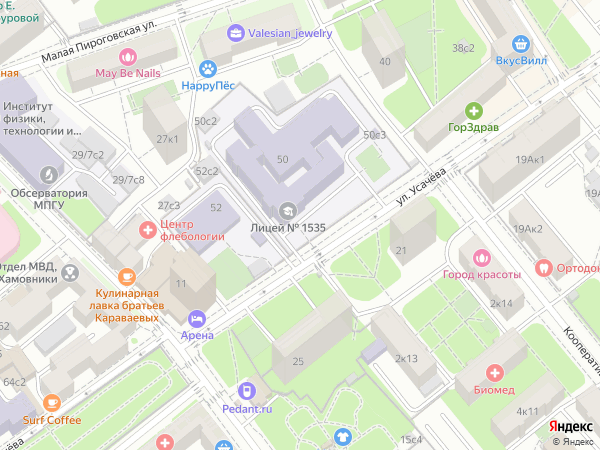
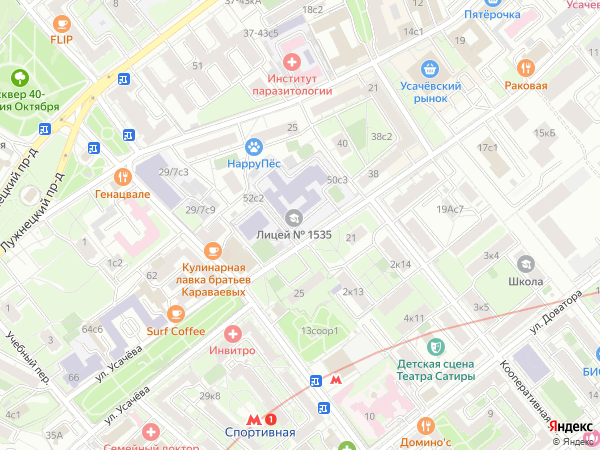
2

diff --git a/map.py b/map.py
@@ -1,13 +1,3 @@
-# -*- coding: utf-8 -*-
-
-# Form implementation generated from reading ui file 'map.ui'
-#
-# Created by: PyQt5 UI code generator 5.15.7
-#
-# WARNING: Any manual changes made to this file will be lost when pyuic5 is
-# run again.  Do not edit this file unless you know what you are doing.
-
-
 from PyQt5 import QtCore, QtGui, QtWidgets
 
 
@@ -18,9 +8,18 @@ class Ui_MainWindow(object):
         self.centralwidget = QtWidgets.QWidget(MainWindow)
         self.centralwidget.setObjectName("centralwidget")
         self.label = QtWidgets.QLabel(self.centralwidget)
-        self.label.setGeometry(QtCore.QRect(0, 0, 600, 450))
+        self.label.setGeometry(QtCore.QRect(0, 40, 600, 490))
         self.label.setText("")
         self.label.setObjectName("label")
+        self.pushButton = QtWidgets.QPushButton(self.centralwidget)
+        self.pushButton.setGeometry(QtCore.QRect(40, 25, 41, 32))
+        self.pushButton.setObjectName("pushButton")
+        self.pushButton_2 = QtWidgets.QPushButton(self.centralwidget)
+        self.pushButton_2.setGeometry(QtCore.QRect(100, 25, 41, 32))
+        self.pushButton_2.setObjectName("pushButton_2")
+        self.label_2 = QtWidgets.QLabel(self.centralwidget)
+        self.label_2.setGeometry(QtCore.QRect(20, 5, 151, 16))
+        self.label_2.setObjectName("label_2")
         MainWindow.setCentralWidget(self.centralwidget)
         self.menubar = QtWidgets.QMenuBar(MainWindow)
         self.menubar.setGeometry(QtCore.QRect(0, 0, 1792, 22))
@@ -36,3 +35,7 @@ class Ui_MainWindow(object):
     def retranslateUi(self, MainWindow):
         _translate = QtCore.QCoreApplication.translate
         MainWindow.setWindowTitle(_translate("Map", "Map"))
+        self.pushButton.setText(_translate("MainWindow", "+"))
+        self.pushButton_2.setText(_translate("MainWindow", "-"))
+        self.label_2.setText(_translate("MainWindow", "Изменение масштаба"))
+

diff --git a/main.py b/main.py
@@ -11,17 +11,33 @@ class Menu(QMainWindow, Ui_MainWindow):
     def __init__(self):
         super().__init__()
         self.setupUi(self)
-        api_server = "http://static-maps.yandex.ru/1.x/"
-        lon = "37.564985"
-        lat = "55.725680"
-        delta = "0.002"
-        params = {
-            "ll": ",".join([lon, lat]),
-            "spn": ",".join([delta, delta]),
+        self.api_server = "http://static-maps.yandex.ru/1.x/"
+        self.lon = "37.564985"
+        self.lat = "55.725680"
+        self.delta = "0.002"
+        self.upd()
+        Image.open(BytesIO(self.response.content)).save('map.png')
+        self.pix = QPixmap('map.png')
+        self.label.setPixmap(self.pix)
+        self.pushButton.clicked.connect(self.scale_up)
+        self.pushButton_2.clicked.connect(self.scale_down)
+
+    def scale_up(self):
+        self.delta = str(float(self.delta) + 0.001)
+        self.upd()
+
+    def scale_down(self):
+        self.delta = str(float(self.delta) - 0.001)
+        self.upd()
+
+    def upd(self):
+        self.params = {
+            "ll": ",".join([self.lon, self.lat]),
+            "spn": ",".join([self.delta, self.delta]),
             "l": "map"
         }
-        response = requests.get(api_server, params=params)
-        Image.open(BytesIO(response.content)).save('map.png')
+        self.response = requests.get(self.api_server, params=self.params)
+        Image.open(BytesIO(self.response.content)).save('map.png')
         self.pix = QPixmap('map.png')
         self.label.setPixmap(self.pix)
 
